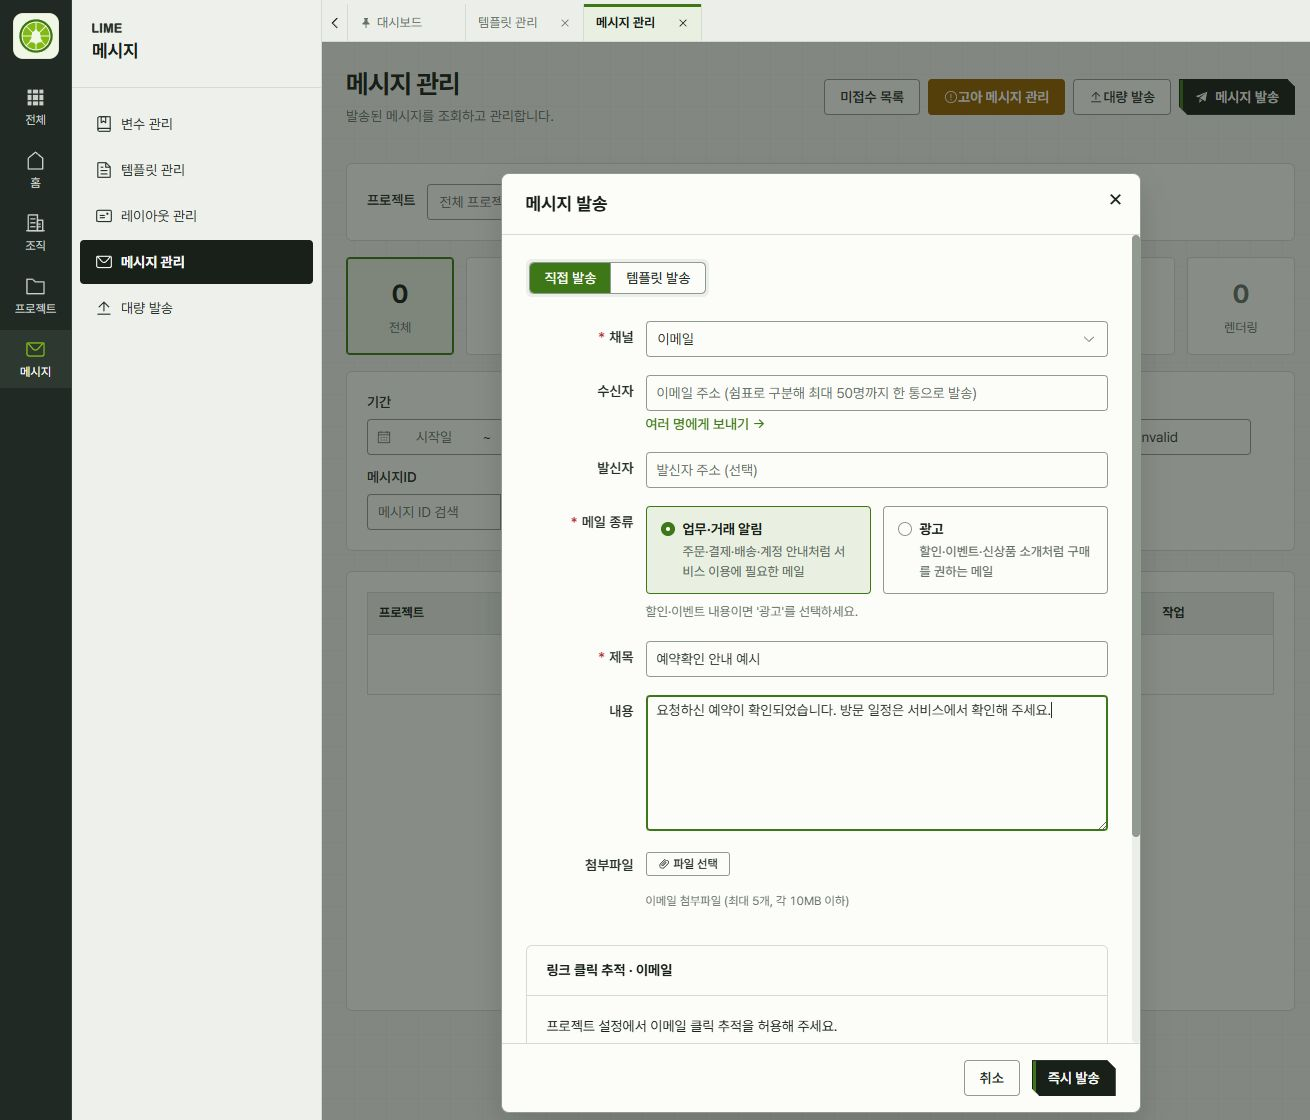
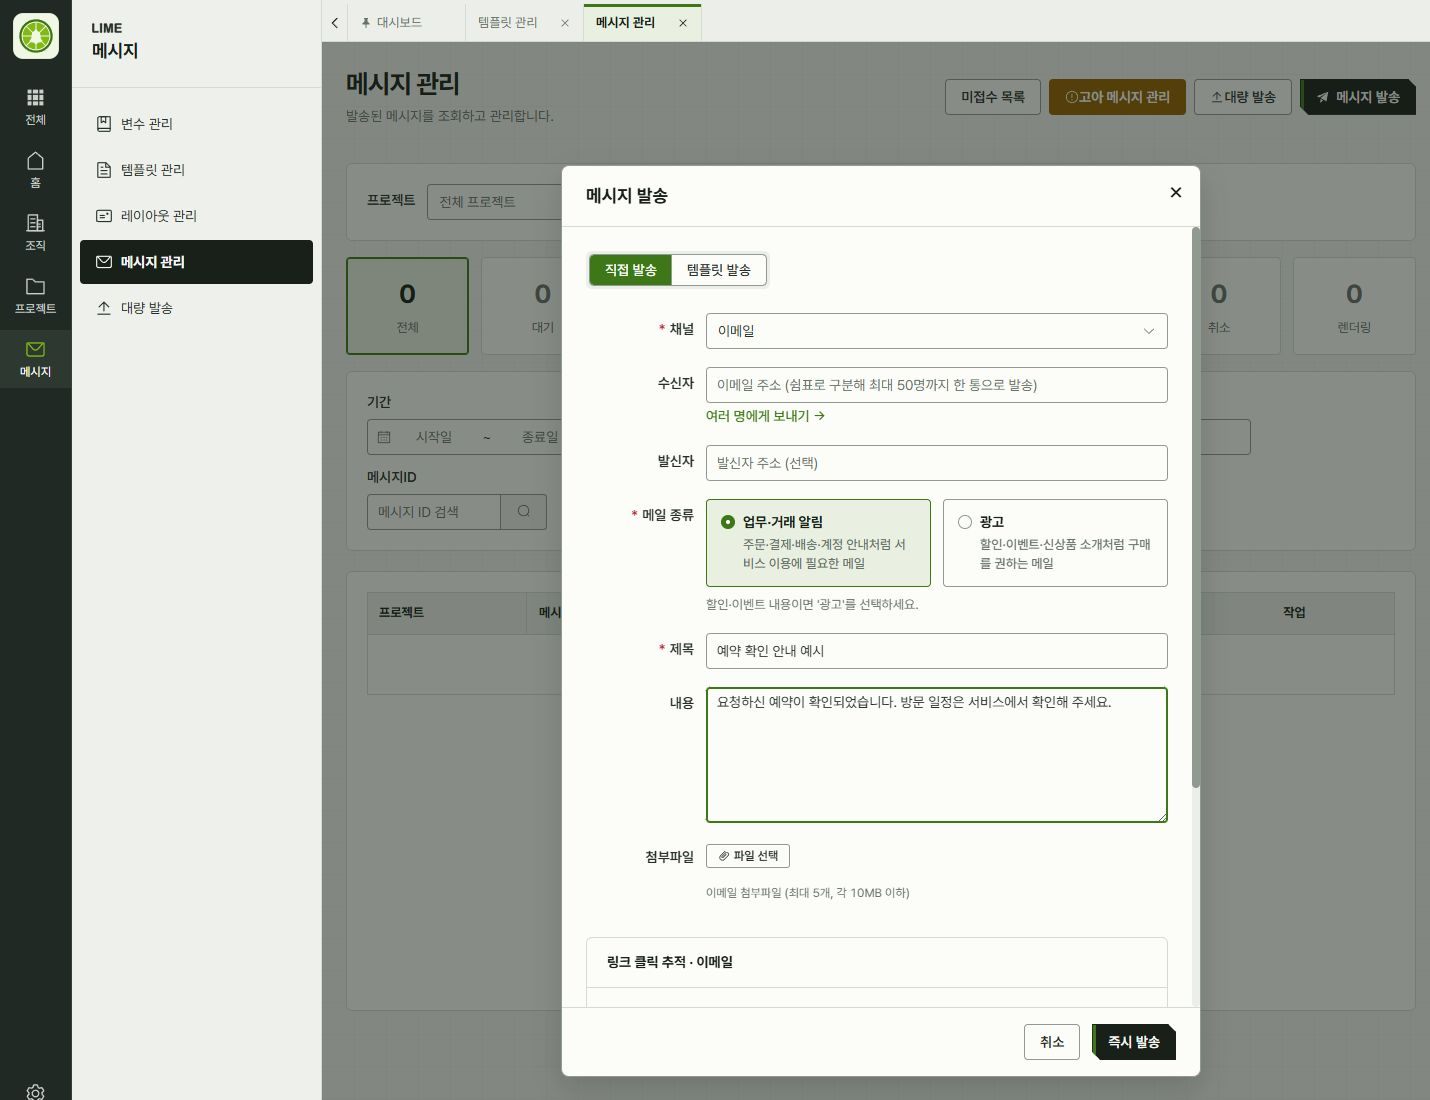
fix: 라임 화면 재촬영과 갤러리 가독성 개선

diff --git a/data/lime.ts b/data/lime.ts
@@ -3,24 +3,24 @@
 export const limeHero = {
     image: '/images/solutions/lime/dashboard-202611.jpg',
     alt: '라임 대시보드의 발송 현황 카드, 발송 추이와 채널별 비중 차트',
-    w: 1310,
-    h: 912,
+    w: 1920,
+    h: 1200,
 }
 
 export const limeConsole = [
     {
         image: '/images/solutions/lime/template-editor-202611.jpg',
         alt: '라임 이메일 템플릿 생성 화면의 제목·본문 편집과 미리보기',
-        w: 1310,
-        h: 1120,
+        w: 1910,
+        h: 1100,
         title: '문구를 편집하고 결과를 미리 확인',
         body: '메일 종류·제목·본문과 레이아웃을 설정하고 미리보기로 확인합니다. 화면의 예약 안내는 저장하지 않은 작성 예시입니다.',
     },
     {
         image: '/images/solutions/lime/message-compose-202611.jpg',
         alt: '라임 메시지 발송 화면의 채널·수신자·메일 종류·제목·본문과 첨부파일 입력 항목',
-        w: 1310,
-        h: 1120,
+        w: 1430,
+        h: 1100,
         title: '채널과 발송 내용을 한 화면에서',
         body: '직접 작성과 템플릿 발송을 구분하고 채널에 필요한 항목을 입력합니다. 수신자를 입력하지 않은 미발송 예시입니다.',
     },

diff --git a/pages/solutions/lime.vue b/pages/solutions/lime.vue
@@ -294,7 +294,7 @@ useFbJsonLd([solutionJsonLd(solution), faqJsonLd(solution.faq)])
 }
 .lime-console-gallery {
     display: grid;
-    grid-template-columns: repeat(2, minmax(0, 1fr));
+    grid-template-columns: minmax(0, 1fr);
     gap: 28px;
     margin-top: 40px;
 }
@@ -507,9 +507,6 @@ useFbJsonLd([solutionJsonLd(solution), faqJsonLd(solution.faq)])
     margin: 20px 0 28px;
 }
 @media (max-width: 920px) {
-    .lime-console-gallery {
-        grid-template-columns: minmax(0, 1fr);
-    }
     .lime-channel-grid,
     .lime-flow,
     .lime-adoption {

diff --git a/docs/lime-brand.md b/docs/lime-brand.md
@@ -38,15 +38,17 @@
 
 ## 실제 화면 캡처
 
-2026-11-08에 사용자가 내장 브라우저에서 직접 로그인한 뒤 촬영했습니다. 스크린샷은 브라우저에서 직접 JPEG로 저장했으며 생성형 이미지로 재구성하거나 운영 수치를 바꾸지 않았습니다. 저장 파일을 다시 열어 공개 범위를 확인했습니다.
+2026-11-08에 사용자가 내장 브라우저에서 직접 로그인한 뒤 최초 촬영했고, 2026-11-09에 화면 너비를 조정해 다시 촬영했습니다. 스크린샷은 브라우저에서 직접 JPEG로 저장했으며 생성형 이미지로 재구성하거나 운영 수치를 바꾸지 않았습니다. 저장 파일을 다시 열어 공개 범위를 확인했습니다.
 
-| 이미지                       | 크기        | 공개 범위와 제외 항목                                                                                   |
-| ---------------------------- | ----------- | ------------------------------------------------------------------------------------------------------- |
-| `dashboard-202611.jpg`       | 1310 × 912  | 현황 카드·발송 추이·채널 비중만 포함. 최근 발송 목록·수신자·사용자 메뉴 제외                            |
-| `template-editor-202611.jpg` | 1310 × 1120 | 목록을 빈 조회 상태로 바꾸고 라임 자체 프로젝트에서 미저장 예약 안내 예시를 작성. 고객 목록·계정명 제외 |
-| `message-compose-202611.jpg` | 1310 × 1120 | 빈 조회 목록 위의 미발송 작성 예시. 수신자·발신자는 미입력, 계정명 제외                                 |
+| 이미지                       | 크기        | 공개 범위와 제외 항목                                                              |
+| ---------------------------- | ----------- | ---------------------------------------------------------------------------------- |
+| `dashboard-202611.jpg`       | 1920 × 1200 | 현황 카드와 차트. 최근 목록의 수신자 행은 포함하지 않고 사용자 메뉴는 열지 않음    |
+| `template-editor-202611.jpg` | 1910 × 1100 | 1920 × 1200 화면에서 촬영. 빈 목록 위의 미저장 예시. 고객 목록·계정명 제외         |
+| `message-compose-202611.jpg` | 1430 × 1100 | 1440 × 1200 화면에서 촬영. 고정 너비 발송 창의 미발송 예시. 수신자·발신자는 미입력 |
 
-캡처 파일 3개의 합계는 약 285KB입니다. 원본에는 고객명·수신자 목록·전화번호·계정 이메일·API Key가 포함되지 않도록 화면과 범위를 선택했습니다. 계정 아바타가 있는 하단 영역은 제외했습니다. 템플릿 예시는 미리보기만 실행하고 생성을 취소했으며, 메시지는 발송하지 않고 취소했습니다. 촬영 후 검색 조건을 비우고 대시보드로 돌아왔습니다.
+캡처 파일 3개의 합계는 약 359KB입니다. 원본에는 고객명·수신자 목록·전화번호·계정 이메일·API Key가 포함되지 않도록 화면과 범위를 선택했습니다. 대시보드의 아바타에는 회사 약칭만 표시되고 개인 계정 메뉴는 열지 않았습니다. 템플릿 예시는 미리보기만 실행하고 생성을 취소했으며, 메시지는 발송하지 않고 취소했습니다. 촬영 후 검색 조건을 비우고 대시보드로 돌아왔습니다.
+
+기존 1310px 캡처에서는 템플릿 창의 왼쪽 입력 영역이 좁아 메일 종류와 안내 문구가 과도하게 줄바꿈됐습니다. 1920px 화면에서는 템플릿 창이 약 1395px로 확보되어 제목·입력칸·미리보기가 정상 배치되는 것을 확인했습니다. 발송 창은 640px 고정 너비이므로 1440px 화면으로 촬영했습니다. 홈페이지 갤러리도 한 줄에 한 화면씩 넓게 배치해 두 화면을 나란히 축소하던 구성을 정리했습니다. 원본 라임 서비스 코드는 수정하지 않았습니다. 공개 본문·FAQ·대표 URL은 그대로이며, 이미지 치수와 표시 배치를 검증합니다.
 
 대시보드의 수치는 촬영 시점의 데이터이며 성능·가용성·처리량 보장을 뜻하지 않는다고 화면에 안내합니다. 템플릿과 발송 화면의 예시 상태도 각각 설명합니다. 이미지는 기존 `FbZoomImage`로 확대하며 제목·설명·대체 텍스트를 HTML로 함께 제공합니다. 실제 발송·예약·기존 데이터 수정은 실행하지 않았습니다.
 
